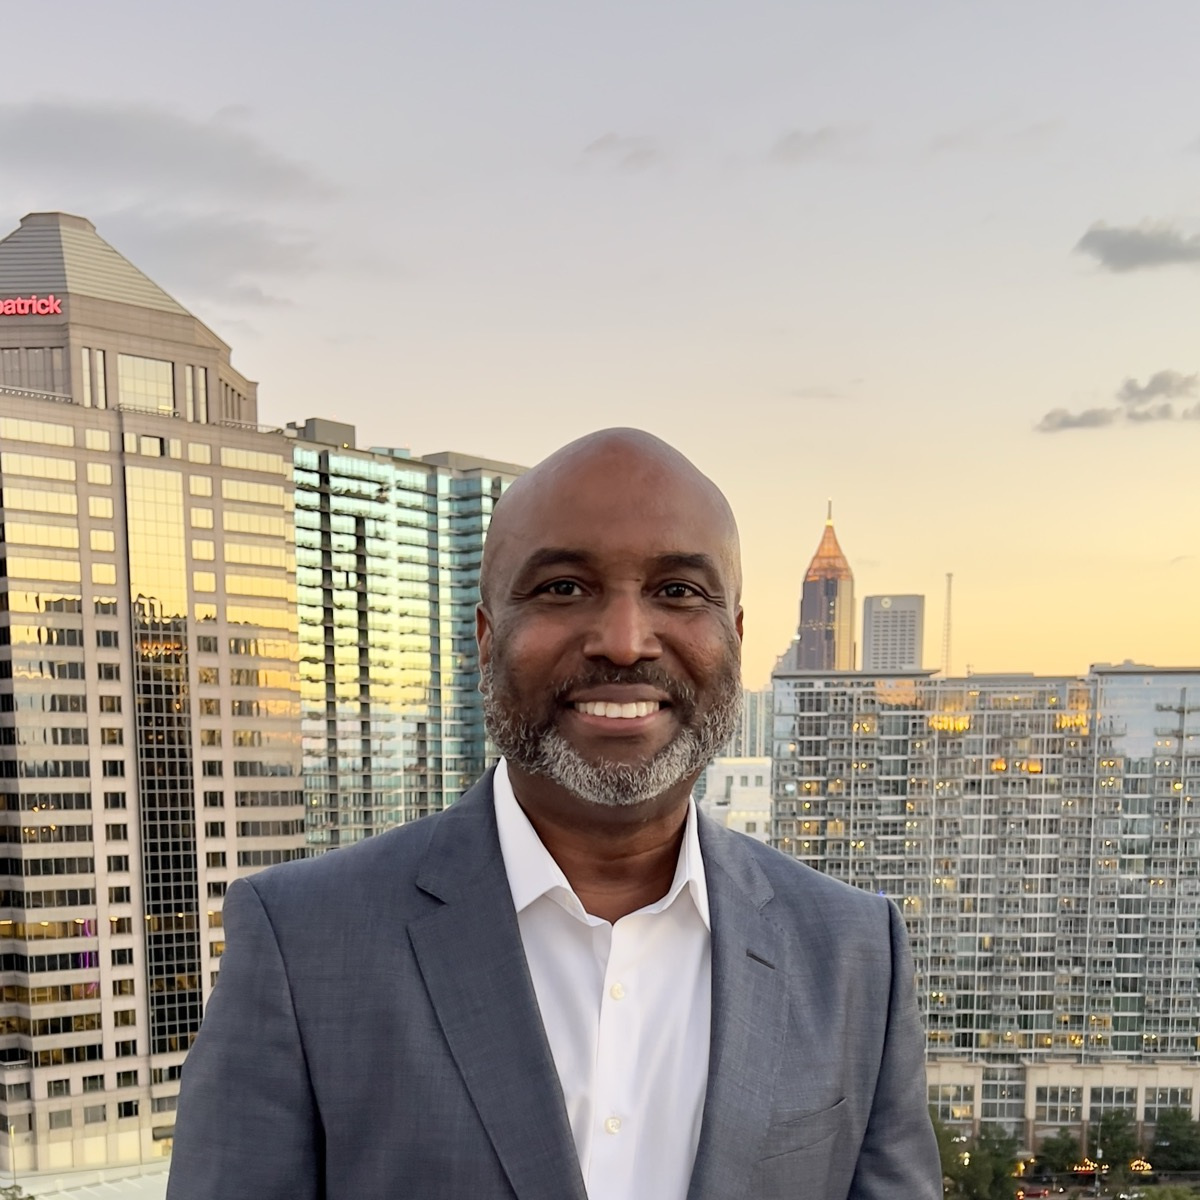
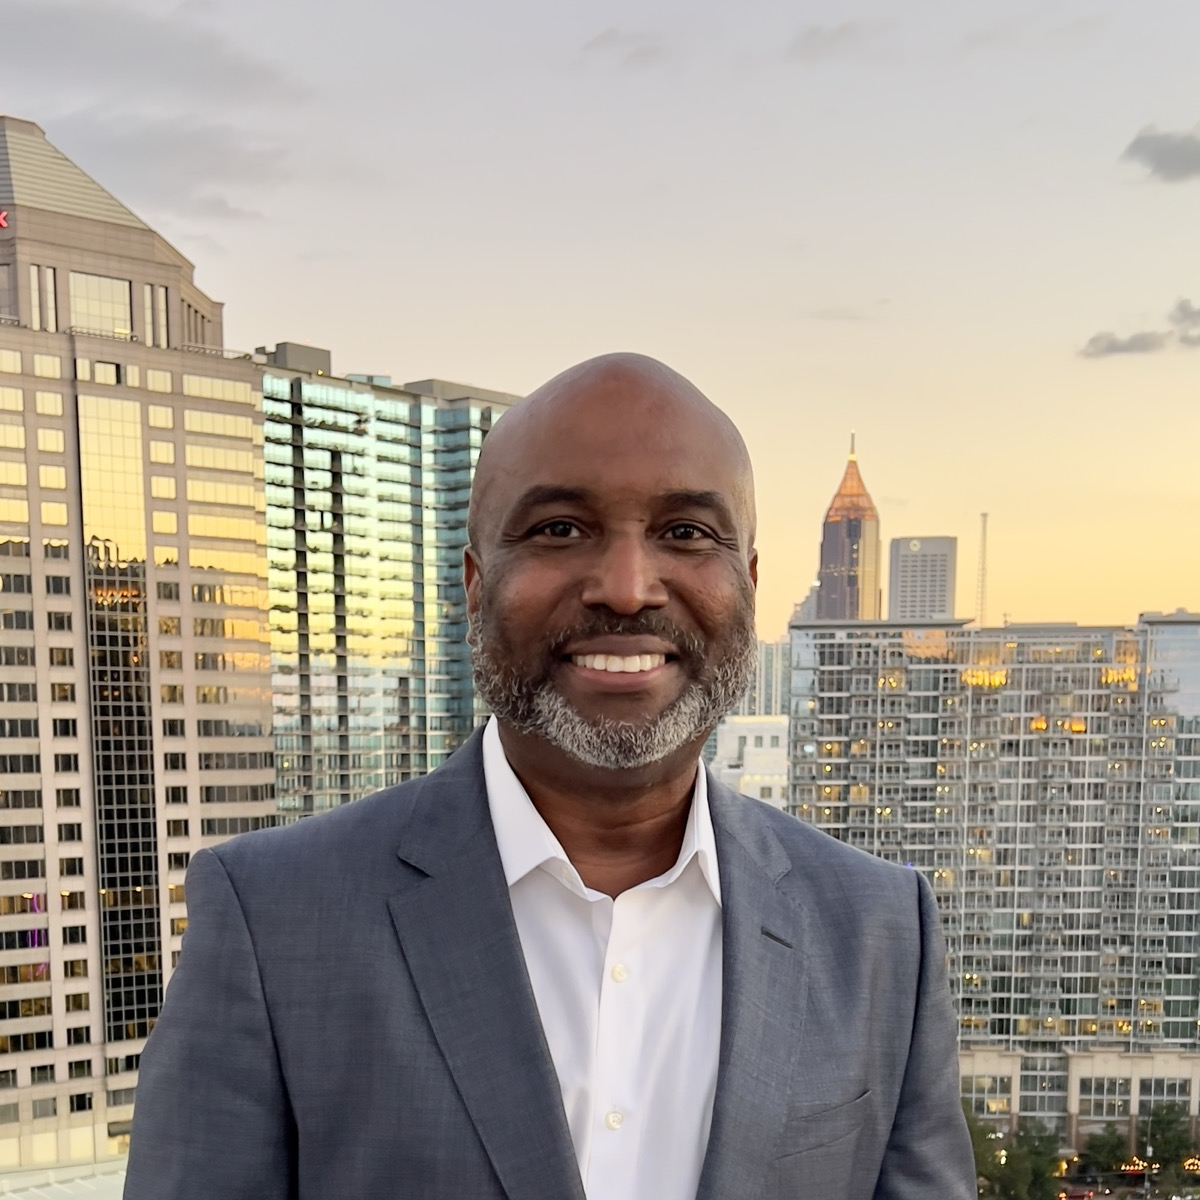
Recrop portrait face-centered and switch typography to Fraunces + Inter
- Portrait: re-cropped IMG_0451 source to 1700x1700 with face at the
  vertical center, resized to 1024x1024 for retina headroom. Display
  bumped to 240px desktop / 190px ≤640px / 150px ≤380px (was
  160/130/108). OG image regenerated with matching framing.
- Typography: dropped Cinzel, Cormorant Garamond, and EB Garamond.
  Added Fraunces (serif, display + emotional copy) and Inter (sans,
  body + UI) via Google Fonts with static weights. All font-family
  declarations now reference --font-serif or --font-sans CSS vars so
  future changes are one-line.

diff --git a/index.html b/index.html
@@ -39,7 +39,7 @@
 <meta name="referrer" content="strict-origin-when-cross-origin">
 <link rel="preconnect" href="https://fonts.googleapis.com" crossorigin="anonymous">
 <link rel="preconnect" href="https://fonts.gstatic.com" crossorigin>
-<link href="https://fonts.googleapis.com/css2?family=Cormorant+Garamond:ital,wght@0,300;0,400;0,500;0,600;1,400;1,500&family=EB+Garamond:ital,wght@0,400;0,500;1,400&family=Cinzel:wght@400;500;600&display=swap" rel="stylesheet">
+<link href="https://fonts.googleapis.com/css2?family=Fraunces:ital,wght@0,400;0,500;0,600;0,700;1,400;1,500&family=Inter:wght@400;500;600;700&display=swap" rel="stylesheet">
 <style>
   :root {
     --bg: #f6f1e8;
@@ -54,6 +54,8 @@
     --gold: #b08b4d;
     --shadow: 0 28px 70px rgba(44, 29, 17, 0.12);
     --max: 860px;
+    --font-serif: 'Fraunces', Georgia, 'Times New Roman', serif;
+    --font-sans: 'Inter', system-ui, -apple-system, 'Segoe UI', sans-serif;
   }
 
   * {
@@ -67,7 +69,7 @@
       radial-gradient(circle at bottom right, rgba(94, 70, 36, 0.08), transparent 28%),
       var(--bg);
     color: var(--ink);
-    font-family: 'EB Garamond', Georgia, serif;
+    font-family: var(--font-sans);
     font-size: 19px;
     line-height: 1.76;
     -webkit-font-smoothing: antialiased;
@@ -110,7 +112,7 @@
   }
 
   .name {
-    font-family: 'Cinzel', 'Cormorant Garamond', serif;
+    font-family: var(--font-serif);
     font-weight: 600;
     font-size: 40px;
     letter-spacing: 0.32em;
@@ -120,7 +122,7 @@
   }
 
   .title {
-    font-family: 'EB Garamond', serif;
+    font-family: var(--font-sans);
     font-style: italic;
     font-size: 16px;
     letter-spacing: 0.08em;
@@ -159,8 +161,8 @@
   }
 
   .portrait img {
-    width: 160px;
-    height: 160px;
+    width: 240px;
+    height: 240px;
     border-radius: 50%;
     object-fit: cover;
     object-position: center 30%;
@@ -179,7 +181,7 @@
   }
 
   .creed-eyebrow {
-    font-family: 'Cinzel', serif;
+    font-family: var(--font-sans);
     font-size: 11px;
     letter-spacing: 0.44em;
     color: var(--accent);
@@ -188,7 +190,7 @@
   }
 
   .creed-text {
-    font-family: 'Cormorant Garamond', serif;
+    font-family: var(--font-serif);
     font-weight: 400;
     font-style: italic;
     font-size: 28px;
@@ -202,7 +204,7 @@
   }
 
   .creed-text .first {
-    font-family: 'Cinzel', serif;
+    font-family: var(--font-sans);
     font-style: normal;
     font-size: 22px;
     color: var(--accent-deep);
@@ -211,7 +213,7 @@
 
   .creed-close {
     margin-top: 34px;
-    font-family: 'EB Garamond', serif;
+    font-family: var(--font-sans);
     font-style: italic;
     font-size: 17px;
     color: var(--muted);
@@ -230,7 +232,7 @@
   }
 
   .section-eyebrow {
-    font-family: 'Cinzel', serif;
+    font-family: var(--font-sans);
     font-weight: 600;
     font-size: 14px;
     letter-spacing: 0.36em;
@@ -239,7 +241,7 @@
   }
 
   .section-title {
-    font-family: 'Cormorant Garamond', serif;
+    font-family: var(--font-serif);
     font-weight: 500;
     font-size: 34px;
     color: var(--ink);
@@ -278,7 +280,7 @@
   }
 
   .pillar-num {
-    font-family: 'Cinzel', serif;
+    font-family: var(--font-sans);
     font-size: 10px;
     letter-spacing: 0.34em;
     color: var(--gold);
@@ -286,7 +288,7 @@
   }
 
   .pillar-name {
-    font-family: 'Cormorant Garamond', serif;
+    font-family: var(--font-serif);
     font-weight: 500;
     font-size: 22px;
     color: var(--ink);
@@ -312,7 +314,7 @@
   }
 
   .prose p {
-    font-family: 'EB Garamond', serif;
+    font-family: var(--font-sans);
     font-size: 19px;
     line-height: 1.82;
     color: var(--ink-soft);
@@ -335,7 +337,7 @@
     display: inline-flex;
     align-items: center;
     justify-content: center;
-    font-family: 'Cinzel', serif;
+    font-family: var(--font-sans);
     font-size: 12px;
     letter-spacing: 0.32em;
     text-transform: uppercase;
@@ -370,7 +372,7 @@
   }
 
   .house-line {
-    font-family: 'Cormorant Garamond', serif;
+    font-family: var(--font-serif);
     font-size: 22px;
     font-style: italic;
     color: var(--ink-soft);
@@ -390,7 +392,7 @@
   }
 
   .house-group-names {
-    font-family: 'EB Garamond', serif;
+    font-family: var(--font-sans);
     font-size: 16px;
     color: var(--muted);
     letter-spacing: 0.06em;
@@ -399,7 +401,7 @@
   /* ---------- Foundation ---------- */
 
   .foundation-quote {
-    font-family: 'Cormorant Garamond', serif;
+    font-family: var(--font-serif);
     font-style: italic;
     font-size: 22px;
     line-height: 1.6;
@@ -424,7 +426,7 @@
   }
 
   .signoff {
-    font-family: 'Cinzel', serif;
+    font-family: var(--font-sans);
     font-size: 13px;
     letter-spacing: 0.32em;
     color: var(--ink);
@@ -434,7 +436,7 @@
   .contact-link {
     display: inline-block;
     margin-top: 22px;
-    font-family: 'EB Garamond', serif;
+    font-family: var(--font-sans);
     font-size: 16px;
     color: var(--accent-deep);
     text-decoration: none;
@@ -449,7 +451,7 @@
 
   .benediction {
     margin-top: 40px;
-    font-family: 'EB Garamond', serif;
+    font-family: var(--font-sans);
     font-style: italic;
     font-size: 14px;
     color: var(--muted);
@@ -528,8 +530,8 @@
     }
 
     .portrait img {
-      width: 130px;
-      height: 130px;
+      width: 190px;
+      height: 190px;
     }
   }
 
@@ -559,8 +561,8 @@
     }
 
     .portrait img {
-      width: 108px;
-      height: 108px;
+      width: 150px;
+      height: 150px;
     }
   }
 </style>
@@ -595,7 +597,7 @@
   </header>
 
   <div class="portrait">
-    <img src="assets/portrait.jpg" alt="Portrait of Sheldon Mundle" width="160" height="160">
+    <img src="assets/portrait.jpg" alt="Portrait of Sheldon Mundle" width="240" height="240">
   </div>
 
   <!-- ============ CREED ============ -->
